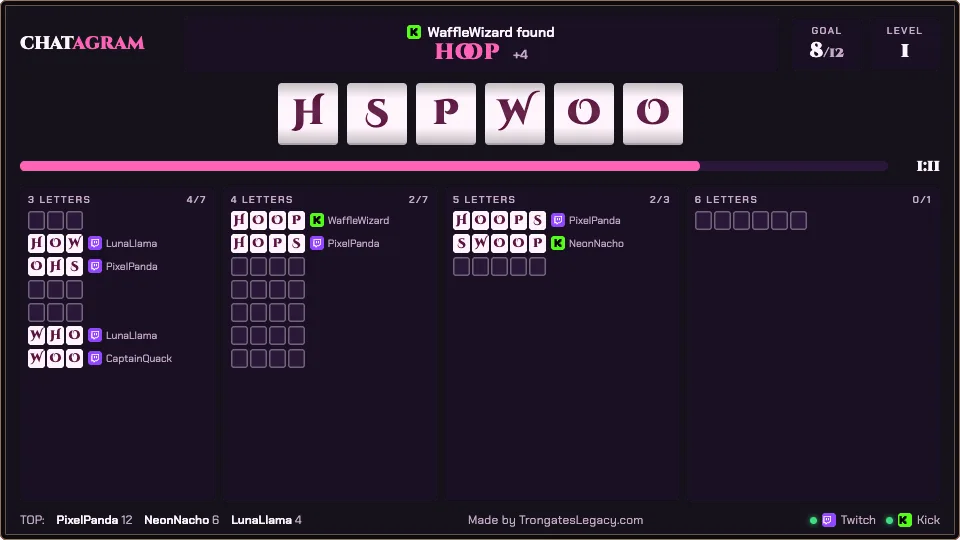
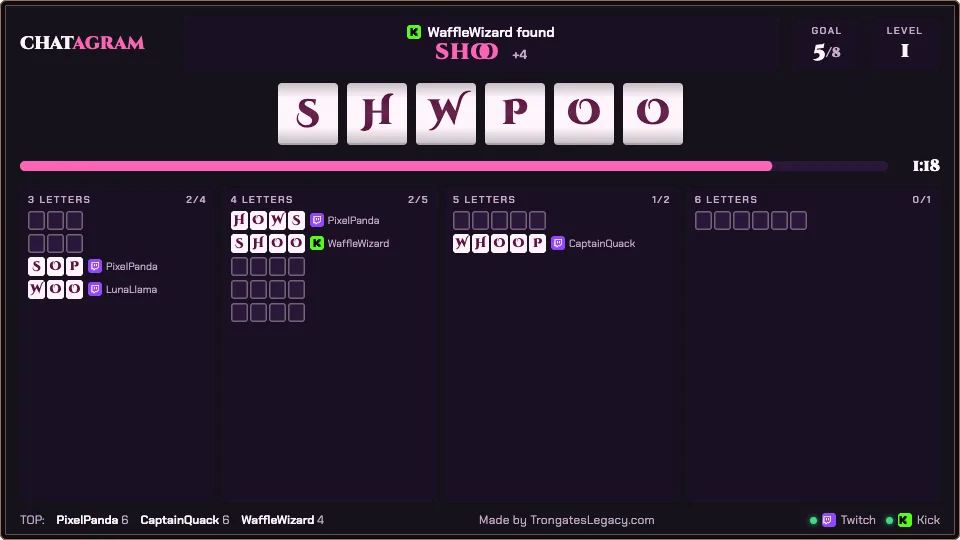
Chatagram and widgets pages show just the game (no coloured backdrop or frame round the previews); box setting in Advanced; pictures re-rendered; docs

diff --git a/public/chatagram/index.html b/public/chatagram/index.html
@@ -72,8 +72,7 @@ h1 { font-size: 62px; line-height: 1.02; margin: 0 0 16px; } h1 em { font-style:
 .chips li { background: var(--ink2); border-radius: 99px; padding: 5px 12px; font-size: 14px; display: inline-flex; gap: 6px; align-items: center; }
 .pf { width: 16px; height: 16px; border-radius: 4px; display: inline-grid; place-items: center; flex: none; }
 .pf svg { width: 11px; height: 11px; } .pf.kick { background: #53fc18; color: #000; } .pf.twitch { background: #9146ff; color: #fff; }
-.screen { position: relative; border-radius: 20px; overflow: hidden; box-shadow: 0 0 0 4px var(--ink3);
-  background: radial-gradient(circle at 25% 30%, #3b5d3a, transparent 45%), radial-gradient(circle at 80% 75%, #6b3d1f, transparent 45%), linear-gradient(135deg, #1d2b36, #2a1b14); }
+.screen { position: relative; }   /* just the game: no backdrop or frame around it */
 .screen iframe { position: absolute; left: 50%; top: 50%; border: 0; background: transparent; transform-origin: 50% 50%; }
 .hero .screen { height: 300px; }
 
@@ -89,7 +88,8 @@ h2 { font-size: 36px; margin: 0 0 16px; } h2 span { color: var(--coral); }
 .tgrid .screen { height: 128px; border-radius: 12px; }
 .tgrid h3 { font-size: 18px; margin: 8px 0 0; }
 .thm { all: unset; display: block; width: 100%; cursor: pointer; border-radius: 12px; }
-.thm:hover .screen { box-shadow: 0 0 0 4px var(--coral); }
+.thm:hover .screen { transform: translateY(-3px); }
+.thm .screen { transition: transform .2s; }
 .thm:focus-visible { outline: 3px solid var(--sun); outline-offset: 4px; }
 
 /* set-up */
@@ -277,6 +277,8 @@ footer.site b { color: var(--paper); font-weight: 600; } footer.site p { margin:
       <div class="agrid">
         <fieldset class="card"><legend>Rules</legend>
           <label class="field"><span>Shuffle the letters</span><span class="box"><select name="shuffle"><option value="0">Never</option><option value="5">Every 5 seconds</option><option value="10">Every 10 seconds</option><option value="15">Every 15 seconds</option><option value="20">Every 20 seconds</option><option value="30">Every 30 seconds</option></select></span></label>
+          <label class="field"><span>Most word boxes on the board</span><span class="box"><select name="slots"><option value="16">16</option><option value="20">20</option><option value="24">24</option><option value="30">30</option><option value="40">40</option><option value="50">50</option></select></span></label>
+          <p class="note">Level 1 shows 12 boxes, 3 more each level up to this. Any real word fills the next box of its length; once a length’s boxes are full, more of that length don’t count.</p>
           <div class="field"><span class="lab" id="l-min">Shortest word</span><div class="seg" role="radiogroup" aria-labelledby="l-min"><label><input type="radio" name="minlen" value="3"><span>3 letters</span></label><label><input type="radio" name="minlen" value="4"><span>4 letters</span></label></div></div>
           <label class="field"><span>Goal</span><span class="box"><select name="goal"><option value="50">50% of the words</option><option value="55">55% of the words</option><option value="60">60% of the words</option><option value="65">65% of the words</option><option value="70">70% of the words</option><option value="75">75% of the words</option><option value="80">80% of the words</option><option value="90">90% of the words</option><option value="100">Every word</option></select></span></label>
           <label class="field"><span>Hidden and fake letters</span><span class="box"><select name="tricky"><option value="0">Never</option><option value="1">From level 1</option><option value="2">From level 2</option><option value="3">From level 3</option><option value="4">From level 4</option><option value="5">From level 5</option><option value="6">From level 6</option></select></span></label>

diff --git a/public/widgets/index.html b/public/widgets/index.html
@@ -45,7 +45,7 @@ h1 .s { background: linear-gradient(180deg, #fff, var(--accent)); -webkit-backgr
 .lede { color: var(--muted); font-size: 18px; max-width: 680px; margin: 0 0 34px; }
 .grid { display: grid; grid-template-columns: repeat(3, minmax(0, 1fr)); gap: 22px; padding: 0; margin: 0; list-style: none; }
 .card { background: var(--panel); border: 1px solid var(--line); clip-path: polygon(20px 0,100% 0,100% calc(100% - 20px),calc(100% - 20px) 100%,0 100%,0 20px); display: flex; flex-direction: column; height: 100%; }
-.thumb { height: 190px; position: relative; overflow: hidden; background: radial-gradient(circle at 25% 30%, #3b5d3a, transparent 45%), radial-gradient(circle at 80% 75%, #6b3d1f, transparent 45%), linear-gradient(135deg, #1d2b36, #2a1b14); }
+.thumb { height: 190px; position: relative; overflow: hidden; }
 .thumb img { position: absolute; inset: 12px; width: calc(100% - 24px); height: calc(100% - 24px); object-fit: contain; }
 .body { padding: 18px 22px 22px; display: flex; flex-direction: column; flex: 1; }
 .card h2 { font: 700 19px Orbitron, sans-serif; letter-spacing: .06em; margin: 0 0 8px; text-transform: uppercase; }

diff --git a/docs/widgets.md b/docs/widgets.md
@@ -122,6 +122,11 @@ round highlights (fastest find, longest streak, last-second save).
   in letter by letter over the dimmed board, then the summary fades in (it never flips the widget: too jarring on stream).
 - **Countdowns** to the next level or game: the ring drains smoothly (one linear animation to the moment it starts); only
   the number inside changes each second. Reduced motion: the ring steps once a second.
+- **Boxes, not every answer**: the board shows 12 word boxes at level 1, 3 more each level up to 24 (Advanced → Most
+  word boxes, 16–50), spread over the lengths in proportion, the longest word always among them. A box belongs to a
+  length, not a word: any real word of that length fills the next open box, and once a length's boxes are full, more words
+  of that length don't count ("full"). The goal is 65% of the boxes. Unfilled boxes' words are the "missed" ones.
+- **The banner** runs one scramble at a time; a new find cancels the last, so it always ends on the newest word (test).
 - **Empty slots** have a clear outline in every theme, so they read on any background and when the source is small.
 - **Performance**: one timer drives the game (set for `nextWake()`), one updates the clock once a second; animations
   are Web Animations on `transform` and `opacity` only. **Reduced motion** (`.rm`): everything changes at once. As in
@@ -174,7 +179,7 @@ self-hosted), the speech-bubble tile mark (`assets/icon.svg`), ink `#16122b`, co
   and a Copy bar stays at the bottom. The preview is re-themed by message, so changing theme or accent never reloads it.
 - Indexed (in `sitemap.xml`) with its own title, description, canonical, share image and JSON-LD. The overlay isn't.
 - **Pictures before live games**: the hero and the set-up preview show a picture at once (sized exactly like the live
-  board) and the live game fades in over it when it has drawn, while the picture fades out (both showing at once looked
+  board, no backdrop or frame around it) and the live game fades in over it when it has drawn, while the picture fades out (both showing at once looked
   like two games stacked; a browser test guards it); the theme gallery and the widgets page only ever show pictures (click a theme to use it).
   They're the real overlay, rendered per theme and layout by
   `node --experimental-websocket artwork/chatagram/render-previews.mjs` into `public/chatagram/assets/themes/`; re-run it
